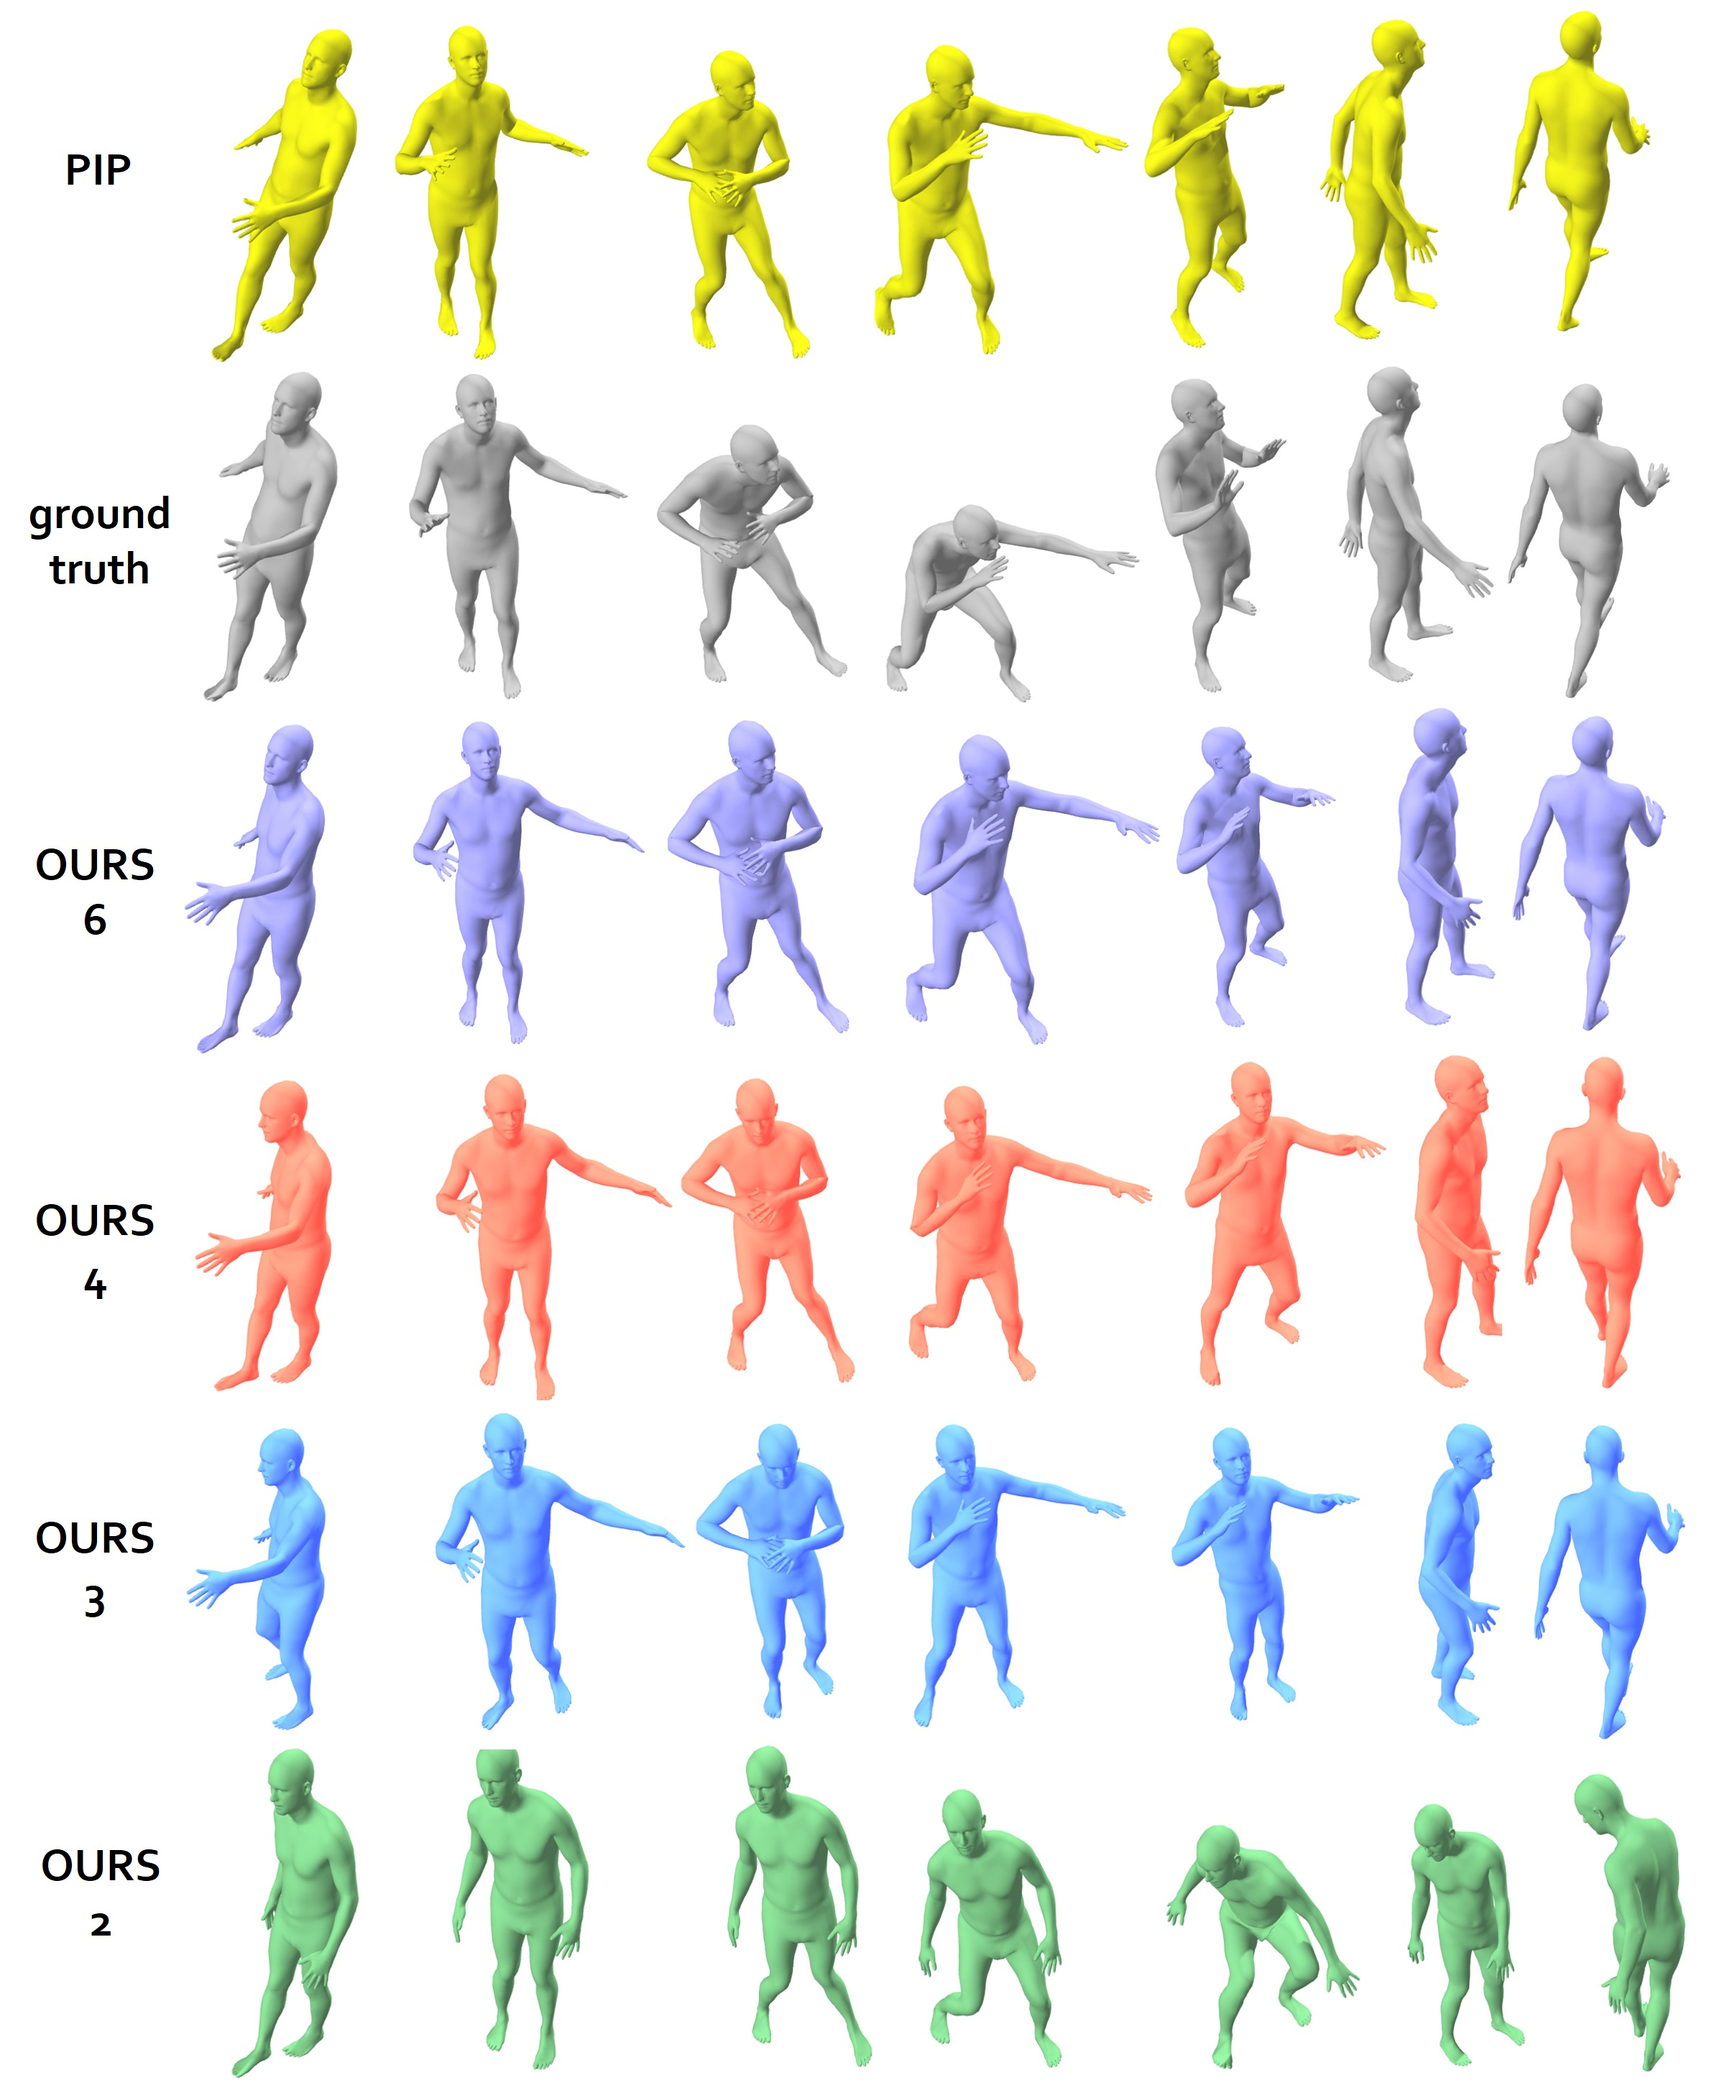
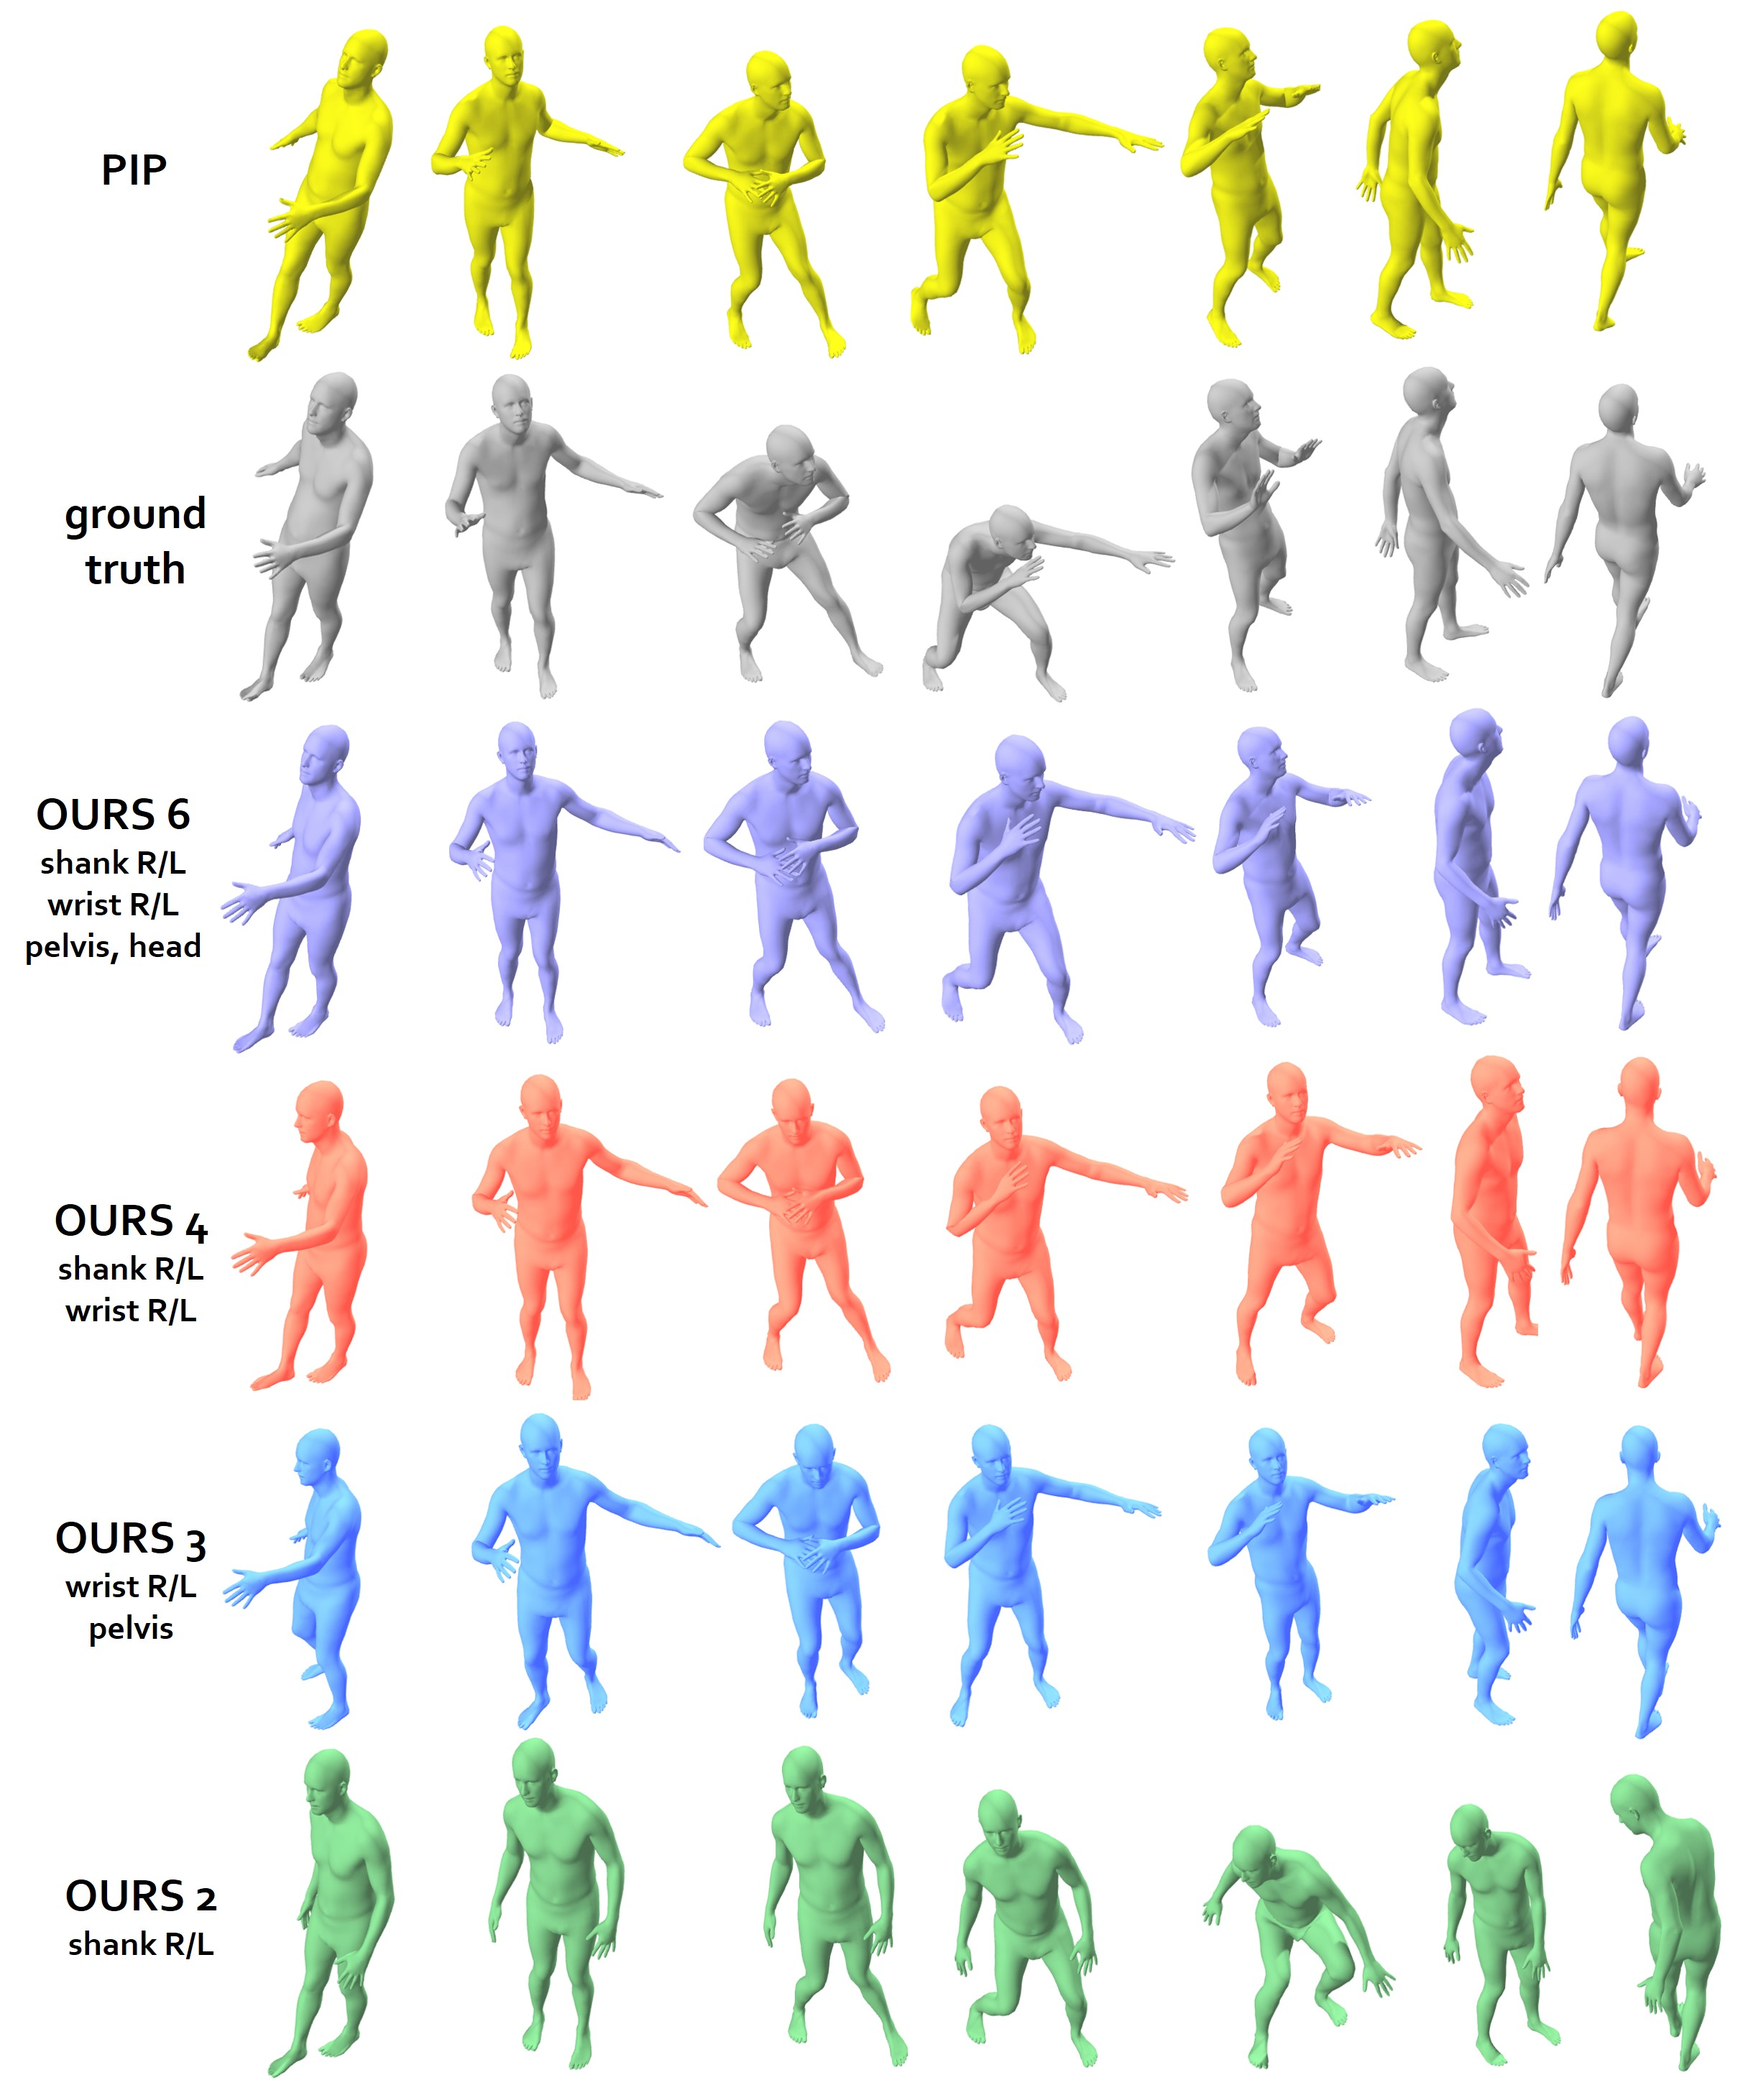
update

diff --git a/index.html b/index.html
@@ -161,6 +161,11 @@
     <div class="columns is-centered has-text-centered">
       <div class="column is-four-fifths">
         <h2 class="title is-3">Live Demo: Diverse motion and locomotion with five IMU sensors</h2>
+		<div class="content has-text-justified">
+          <p>
+				Here we reconstruct motion while instrumenting the pelvis, left wrist, right thigh and the feet. This mimics a realistic real-life setup with instrumented belt and shoes, a watch, a smartphone.
+          </p>
+        </div>
         <div class="publication-video">
           <iframe src="https://www.youtube.com/embed/Ll2nkUteni8?rel=0&amp;showinfo=0"
                   frameborder="0" allow="autoplay; encrypted-media" allowfullscreen></iframe>
@@ -169,15 +174,34 @@
     </div>
     <!--/ Paper video. -->
 	
+		 <!-- Paper video. -->
+    <div class="columns is-centered has-text-centered">
+      <div class="column is-four-fifths">
+        <h2 class="title is-3">Live Demo: Diverse motion and locomotion with four IMU sensors</h2>
+		<div class="content has-text-justified">
+          <p>
+				Here we reconstruct motion while instrumenting the left wrist, right thigh and the feet. This mimics a realistic real-life setup with instrumented shoes, a watch and a smartphone.
+          </p>
+        </div>
+        <div class="publication-video">
+          <iframe src="https://www.youtube.com/embed/CzvKaH2YcWg?rel=0&amp;showinfo=0"
+                  frameborder="0" allow="autoplay; encrypted-media" allowfullscreen></iframe>
+        </div>
+      </div>
+    </div>
+    <!--/ Paper video. -->
+	
+
+	
 	<!-- Paper video. -->
     <div class="columns is-centered has-text-centered">
       <div class="column is-four-fifths">
-        <h2 class="title is-3">Live Demo: Clinically relevant gait deviations captured with 4 sensors (foot L/R and head)</h2>
+        <h2 class="title is-3">Live Demo: Clinically relevant gait deviations captured with 3 sensors (foot L/R and pelvis)</h2>
 		
 		 <div class="content has-text-justified">
           <p>
 				Clinical studies that aim to monitor patients and track rehabilation would benefit from continuous gait analysis during daily life. 
-				Here we show that 4 sensors suffice to capture some typical gait deviations in different patient populations
+				Here we show that 3 sensors suffice to capture some typical gait deviations in different patient populations
           </p>
 		  <p>
 				Toe-in and toe-out gait are two gait deviations that can reduce knee load in patients with knee pain (e.g. knee osteoarthritis patients).  <a href="https://pubmed.ncbi.nlm.nih.gov/29174534/">[Uhlrich et al. 2018]</a> 
